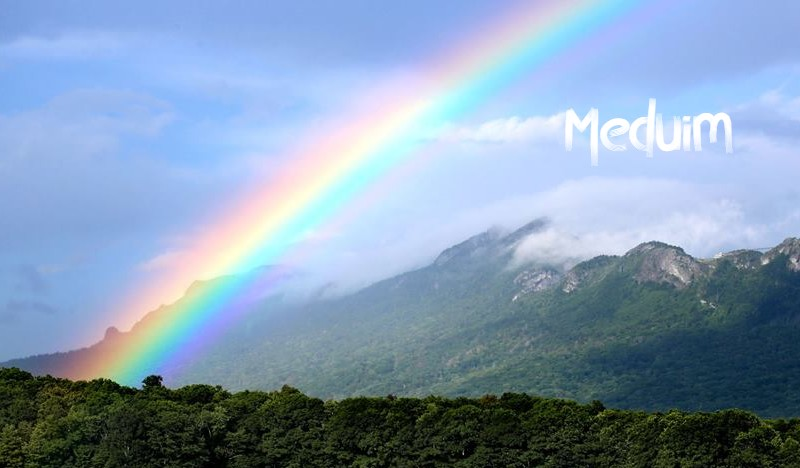
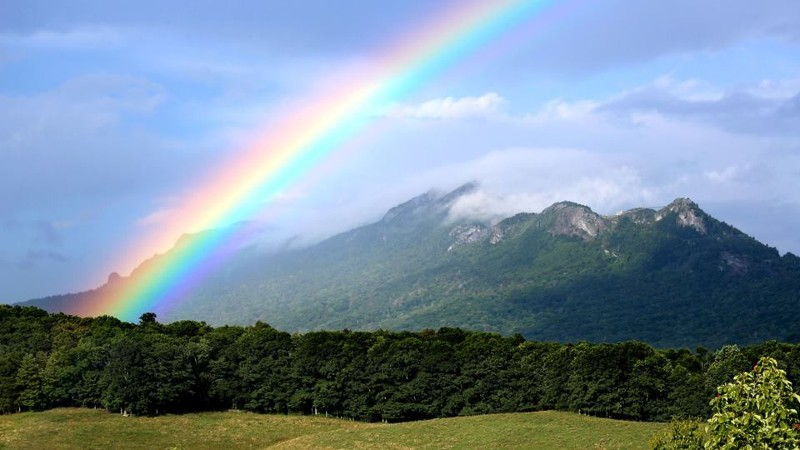
java correction

diff --git a/lesson11/preston/preston.html b/lesson11/preston/preston.html
@@ -35,9 +35,9 @@
       <div id="containerP">
       <h1 class="pageTitle">Preston, Idaho</h1>
             <picture class="cont1">
-              <source media="(max-width:400px" srcset="images/franklinOriginal350.jpg">
-              <source media="(max-width:1000px" srcset="images/franklinOriginal800.jpg">
-              <img src="images/franklinOriginal960.jpg" alt="Rainbow with mountains">
+              <source media="(max-width:400px" srcset="images/rainbow350.jpg">
+              <source media="(max-width:1000px" srcset="images/rainbow800.jpg">
+              <img src="images/rainbow1.jpg" alt="Rainbow with mountains">
             </picture>
             <div class="place2"><h3>Weather Summary</h3>
               <p>Current Temperature: <span id="temp"></span>&deg;</p>
@@ -55,32 +55,30 @@
               </div>
              </section>
             <section class="clearfix">
-           <div class="place3"><h2>Article Title</h2>
+           <div class="place3"><h2>Location and Borders of Idaho</h2>
 
-           <img src="images/rainstorm.jpg" alt="Rainstorm">
+           <img src="/images/rainstorm.jpg" alt="Rainstorm">
           
-          <p>Lorem ipsum dolor sit amet, consectetur
-            adipiscing elit, sed do eiusmod tempor 
-            incididunt ut labore et dolore magna aliqua.
-            Ut enim ad minim veniam, quis nostrud
-            exercitation ullamco laboris nisi ut aliquip
-            ex ea commodo consequat. Duis aute irure
-            dolor in reprehenderit in voluptate velit
-            esse cillum dolore eu fugiat nulla pariatur.
-            Excepteur sint occaecat cupidatat non proident,
-            sunt in culpa qui officia deserunt mollit anim
-            id est laborum.
-            Lorem ipsum dolor sit amet, consectetur
-            adipiscing elit, sed do eiusmod tempor 
-            incididunt ut labore et dolore magna aliqua.
-            Ut enim ad minim veniam, quis nostrud
-            exercitation ullamco laboris nisi ut aliquip
-            ex ea commodo consequat. Duis aute irure
-            dolor in reprehenderit in voluptate velit
-            esse cillum dolore eu fugiat nulla pariatur.
-            Excepteur sint occaecat cupidatat non proident,
-            sunt in culpa qui officia deserunt mollit anim
-            id est laborum.
+          <p>Idaho, constituent state of the United States of America. 
+            It ranks 14th among the 50 U.S. states in terms of total
+             area. Its boundaries—with the Canadian province of British 
+             Columbia to the north and the U.S. states of Montana and 
+             Wyoming to the east, Utah and Nevada to the south, and 
+             Oregon and Washington to the west—are both historical and 
+             geographic in derivation. The boundary with British Columbia
+            follows the 49th parallel of north latitude, while the 
+            border with Utah and Nevada follows the 42nd parallel; both
+            lines were established by treaty—the northern between the
+            United States and Britain in 1846 and the southern between
+            the United States and Spain in 1819. The border with 
+              Montana follows the Continental Divide, while the border
+              with Wyoming incorporates a small slice of Yellowstone
+              National Park. Idaho’s border with Oregon and 
+              Washington is a 480-mile (770-km) straight stretch 
+              except between the Idaho cities of Weiser and Lewiston, 
+              where Hells Canyon of the Snake River serves as a natural 
+              boundary. Boise is the state capital.
+              https://www.britannica.com/place/Idaho
           </p>
           
         </section>

diff --git a/lesson11/sodaSprings.html b/lesson11/sodaSprings.html
@@ -34,11 +34,11 @@
           9:00 a.m. Saturday at the city park pavilion.</div>
       <div id="containerP">
       <h1 class="pageTitle">Soda Springs, Idaho</h1>
-            <picture class="cont1">
-              <source media="(max-width:400px" srcset="images/franklinOriginal350.jpg">
-              <source media="(max-width:1000px" srcset="images/franklinOriginal800.jpg">
-              <img src="images/franklinOriginal960.jpg" alt="Rainbow with mountains">
-            </picture>
+      <picture class="cont1">
+        <source media="(max-width:400px" srcset="/lesson11/preston/images/teton350(1).jpg">
+        <source media="(max-width:1000px" srcset="/lesson11/preston/images/teton800.jpg">
+        <img src="/lesson11/preston/images/teton900.jpg" alt="Idaho Tetons">
+      </picture>
             <div class="place2"><h3>Weather Summary</h3>
               <p>Current Temperature: <span id="temps"></span>&deg;</p>
               <p> High: <span id="highs"></span>&deg;</p> 
@@ -55,32 +55,29 @@
               </div>
              </section>
             <section class="clearfix">
-           <div class="place3"><h2>Article Title</h2>
+           <div class="place3"><h2>Idaho's Climate</h2>
 
-           <img src="images/rainstorm.jpg" alt="Rainstorm">
+           <img src="/lesson11/preston/images/rainstorm.jpg" alt="Rainstorm">
           
-          <p>Lorem ipsum dolor sit amet, consectetur
-            adipiscing elit, sed do eiusmod tempor 
-            incididunt ut labore et dolore magna aliqua.
-            Ut enim ad minim veniam, quis nostrud
-            exercitation ullamco laboris nisi ut aliquip
-            ex ea commodo consequat. Duis aute irure
-            dolor in reprehenderit in voluptate velit
-            esse cillum dolore eu fugiat nulla pariatur.
-            Excepteur sint occaecat cupidatat non proident,
-            sunt in culpa qui officia deserunt mollit anim
-            id est laborum.
-            Lorem ipsum dolor sit amet, consectetur
-            adipiscing elit, sed do eiusmod tempor 
-            incididunt ut labore et dolore magna aliqua.
-            Ut enim ad minim veniam, quis nostrud
-            exercitation ullamco laboris nisi ut aliquip
-            ex ea commodo consequat. Duis aute irure
-            dolor in reprehenderit in voluptate velit
-            esse cillum dolore eu fugiat nulla pariatur.
-            Excepteur sint occaecat cupidatat non proident,
-            sunt in culpa qui officia deserunt mollit anim
-            id est laborum.
+          <p>Idaho’s mountainous topography produces an 
+               diverse climate pattern. In general, as 
+               elevation increases, precipitation increases
+                and mean temperatures drop. On a different
+             scale, the high mountains in eastern Idaho 
+             tend to hold back the cold winter air that 
+             predominates in Montana and Wyoming, giving 
+             the state higher mean temperatures than are 
+             found at the same latitude and elevation in 
+             those states and in more mid-continental 
+             locations. Mean January temperatures range 
+             from the upper 10s F (about −8 °C) at Deadwood 
+             Dam in the central mountains to the low 30s F
+              (about −1 °C) at Orofino in the central
+               panhandle. July temperatures range from 
+               about 60 °F (16 °C) at Deadwood Dam to the
+                upper 70s F (about 25 °C) at Grand View 
+                in the southwest.
+                https://www.britannica.com/place/Idaho
           </p>
           
         </section>

diff --git a/lesson11/fishHaven.html b/lesson11/fishHaven.html
@@ -34,14 +34,14 @@
           9:00 a.m. Saturday at the city park pavilion.</div>
       <div id="containerP">
       <h1 class="pageTitle">Fish Haven, Idaho</h1>
-            <picture class="cont1">
-              <source media="(max-width:400px" srcset="images/franklinOriginal350.jpg">
-              <source media="(max-width:1000px" srcset="images/franklinOriginal800.jpg">
-              <img src="images/franklinOriginal960.jpg" alt="Rainbow with mountains">
-            </picture>
+      <picture class="cont1">
+        <source media="(max-width:400px" srcset="/lesson11/preston/images/land360.jpg">
+        <source media="(max-width:1000px" srcset="/lesson11/preston/images/land800.jpg">
+        <img src="/lesson11/preston/images/land960.jpg" alt="Landscape of Idaho">
+      </picture>
             <div class="place2"><h3>Weather Summary</h3>
               <p>Current Temperature: <span id="tempf"></span>&deg;</p>
-              <p> High: <span id="higfh"></span>&deg;</p> 
+              <p> High: <span id="highf"></span>&deg;</p> 
               <p> Low: <span id="lowf"></span>&deg;</p>
               <p>Wind Speed: <span id="speedf"></span> mph</p>
               <p>Humidity: <span id="humidf"></span>&deg;</p>
@@ -55,32 +55,20 @@
               </div>
              </section>
             <section class="clearfix">
-           <div class="place3"><h2>Article Title</h2>
+           <div class="place3"><h2>History of Idaho</h2>
 
-           <img src="images/rainstorm.jpg" alt="Rainstorm">
+           <img src="/lesson11/preston/images/rainstorm.jpg" alt="Rainstorm">
           
-          <p>Lorem ipsum dolor sit amet, consectetur
-            adipiscing elit, sed do eiusmod tempor 
-            incididunt ut labore et dolore magna aliqua.
-            Ut enim ad minim veniam, quis nostrud
-            exercitation ullamco laboris nisi ut aliquip
-            ex ea commodo consequat. Duis aute irure
-            dolor in reprehenderit in voluptate velit
-            esse cillum dolore eu fugiat nulla pariatur.
-            Excepteur sint occaecat cupidatat non proident,
-            sunt in culpa qui officia deserunt mollit anim
-            id est laborum.
-            Lorem ipsum dolor sit amet, consectetur
-            adipiscing elit, sed do eiusmod tempor 
-            incididunt ut labore et dolore magna aliqua.
-            Ut enim ad minim veniam, quis nostrud
-            exercitation ullamco laboris nisi ut aliquip
-            ex ea commodo consequat. Duis aute irure
-            dolor in reprehenderit in voluptate velit
-            esse cillum dolore eu fugiat nulla pariatur.
-            Excepteur sint occaecat cupidatat non proident,
-            sunt in culpa qui officia deserunt mollit anim
-            id est laborum.
+          <p>Idaho, admitted as the 43rd state of the union on
+               July 3, 1890, is one of the Mountain states, but
+                it is often classified as part of the Pacific
+                 Northwest, a region unified by the Continental
+                  Divide as an eastern boundary and by the 
+                  Columbia River drainage basin, which covers
+                   virtually the entire area. The name Idaho 
+                   is thought to be derived from a Shoshone
+                    phrase meaning “gem of the mountains.”
+                    https://www.britannica.com/place/Idaho
           </p>
           
         </section>

diff --git a/lesson11/preston/css/small.css b/lesson11/preston/css/small.css
@@ -268,9 +268,9 @@ section.forecast div {
 
 }
 
-section.forecast div h5, #daysForecast span {
+section.forecast div h5, #daysForecast section, #daysForecasts section, #daysForecastf section {
   margin: 0;
-  padding: 1rem;
+  padding: 1.5rem;
   font-size: 12pt;
   font-family: "love ya like a sister";
   text-shadow: 1px 1px 2px gray;
@@ -290,7 +290,7 @@ section.forecast div h5, #daysForecast span {
 }
 
 #events, #eventss, #eventsf {
-  margin: 1rem 11rem;
+  margin: 1rem 12rem;
   padding: 1rem;
   background-color: white;
   border: 2.5pt solid yellow;
@@ -311,29 +311,29 @@ section.forecast div h5, #daysForecast span {
   color: black;
 }
 
-.bottom {
-  margin: 2rem 1rem;;
+section.bottom {
+  margin: 2rem 12rem;;
   background-color: white;
   border: 2.5pt solid blue;
   padding: .5rem;
   box-shadow: 2px 2px 5px black;
-  font-family: "love ya like a sister";
 }
 
 .bottom img {
   margin: 1rem 0 .5rem 8rem;
 }
 
-.address {
-  margin: 1rem 12rem;
-}
 
-.bottom h2 {
-  margin-left: -1rem;
+
+.address h2 {
+  color: purple;
   font-family:"sigmar one";
+  margin: 1rem 2rem 0rem 2rem;
+ 
 }
 
 .address p {
+  margin: 1rem 10rem;
   font-family: "love ya like a sister";
 }
 
@@ -354,6 +354,8 @@ section.forecast div h5, #daysForecast span {
 
 .gallery img {
   max-width: 100%;
+  box-shadow: 2px 2px 5px black;
+  
 }
 
 figcaption {
@@ -507,13 +509,20 @@ img.mount {
   margin: 0; 
   color: Green;
   text-align: center;
+  font-family: "sigmar one";
   
 }
 .cards div h3 {
   margin: 0; 
   color: blue; 
   text-align: center;
+  font-family: "love ya like a sister";
 }
+
+.cards div p {
+  font-family: "love ya like a sister";
+}
+
 .cards div figure {
   margin: 0; 
   width: 90%;

diff --git a/lesson11/preston/js/windchill.js b/lesson11/preston/js/windchill.js
@@ -149,7 +149,7 @@ fetch(apiURL)
           let theDayName = document.createElement("h5");
           theDayName.textContent = weekday[forecastDayNumber];
   
-          let theTemp = document.createElement("span");
+          let theTemp = document.createElement("section");
           theTemp.innerHTML = `${weatherInfo.list[i].main.temp}&#176;F`;
   
           let iconcode = weatherInfo.list[i].weather[0].icon;
@@ -193,7 +193,7 @@ fetch(apiURL)
           let theDayName = document.createElement("h5");
           theDayName.textContent = weekday[forecastDayNumber];
   
-          let theTemp = document.createElement("span");
+          let theTemp = document.createElement("section");
           theTemp.innerHTML = `${weatherInfo.list[i].main.temp}&#176;F`;
   
           let iconcode = weatherInfo.list[i].weather[0].icon;
@@ -237,7 +237,7 @@ fetch(apiURL)
           let theDayName = document.createElement("h5");
           theDayName.textContent = weekday[forecastDayNumber];
   
-          let theTemp = document.createElement("span");
+          let theTemp = document.createElement("section");
           theTemp.innerHTML = `${weatherInfo.list[i].main.temp}&#176;F`;
   
           let iconcode = weatherInfo.list[i].weather[0].icon;

diff --git a/lesson11/preston/css/large.css b/lesson11/preston/css/large.css
@@ -70,7 +70,7 @@ li {
   position: absolute;
   width: 15%;
   margin-left: 13rem;
-  margin-top: -27.5rem;
+  margin-top: -34rem;
  /* background: radial-gradient(#BDB2FF, #A0C4FF,#CAFFBF, #FDFFB6,#FFD6A5, #FFADAD);*/
 
 }
